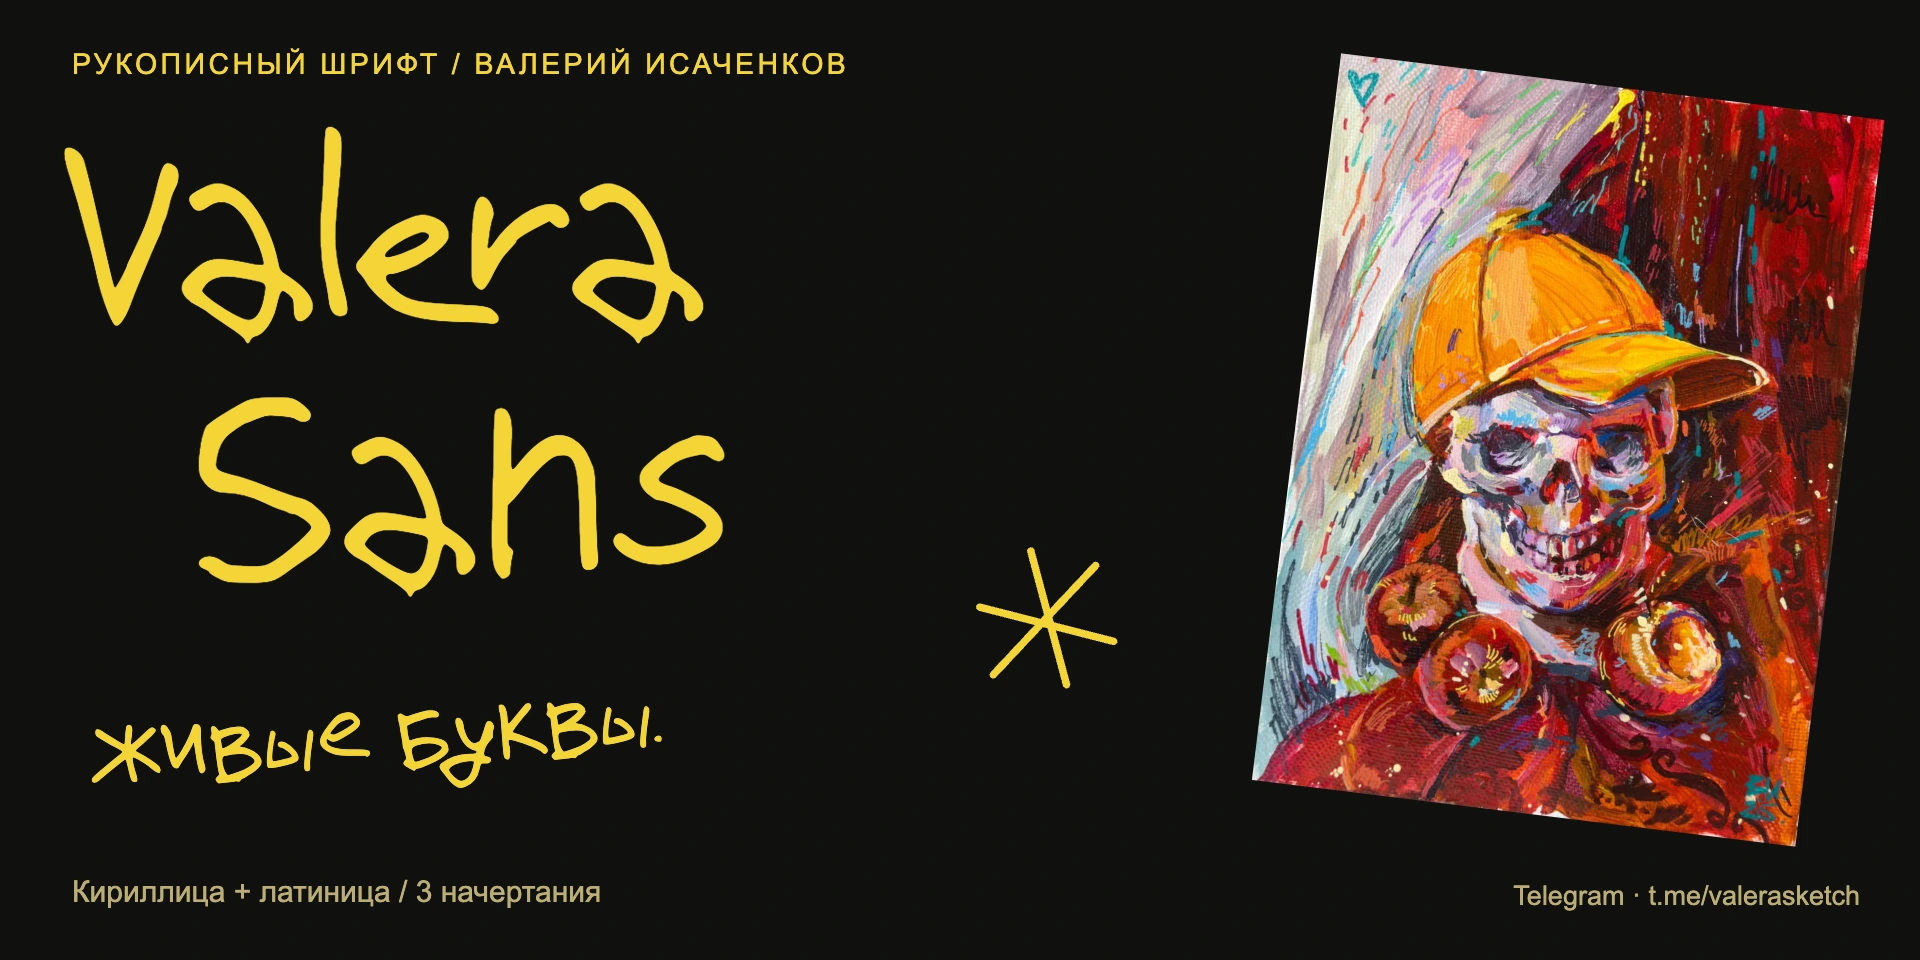
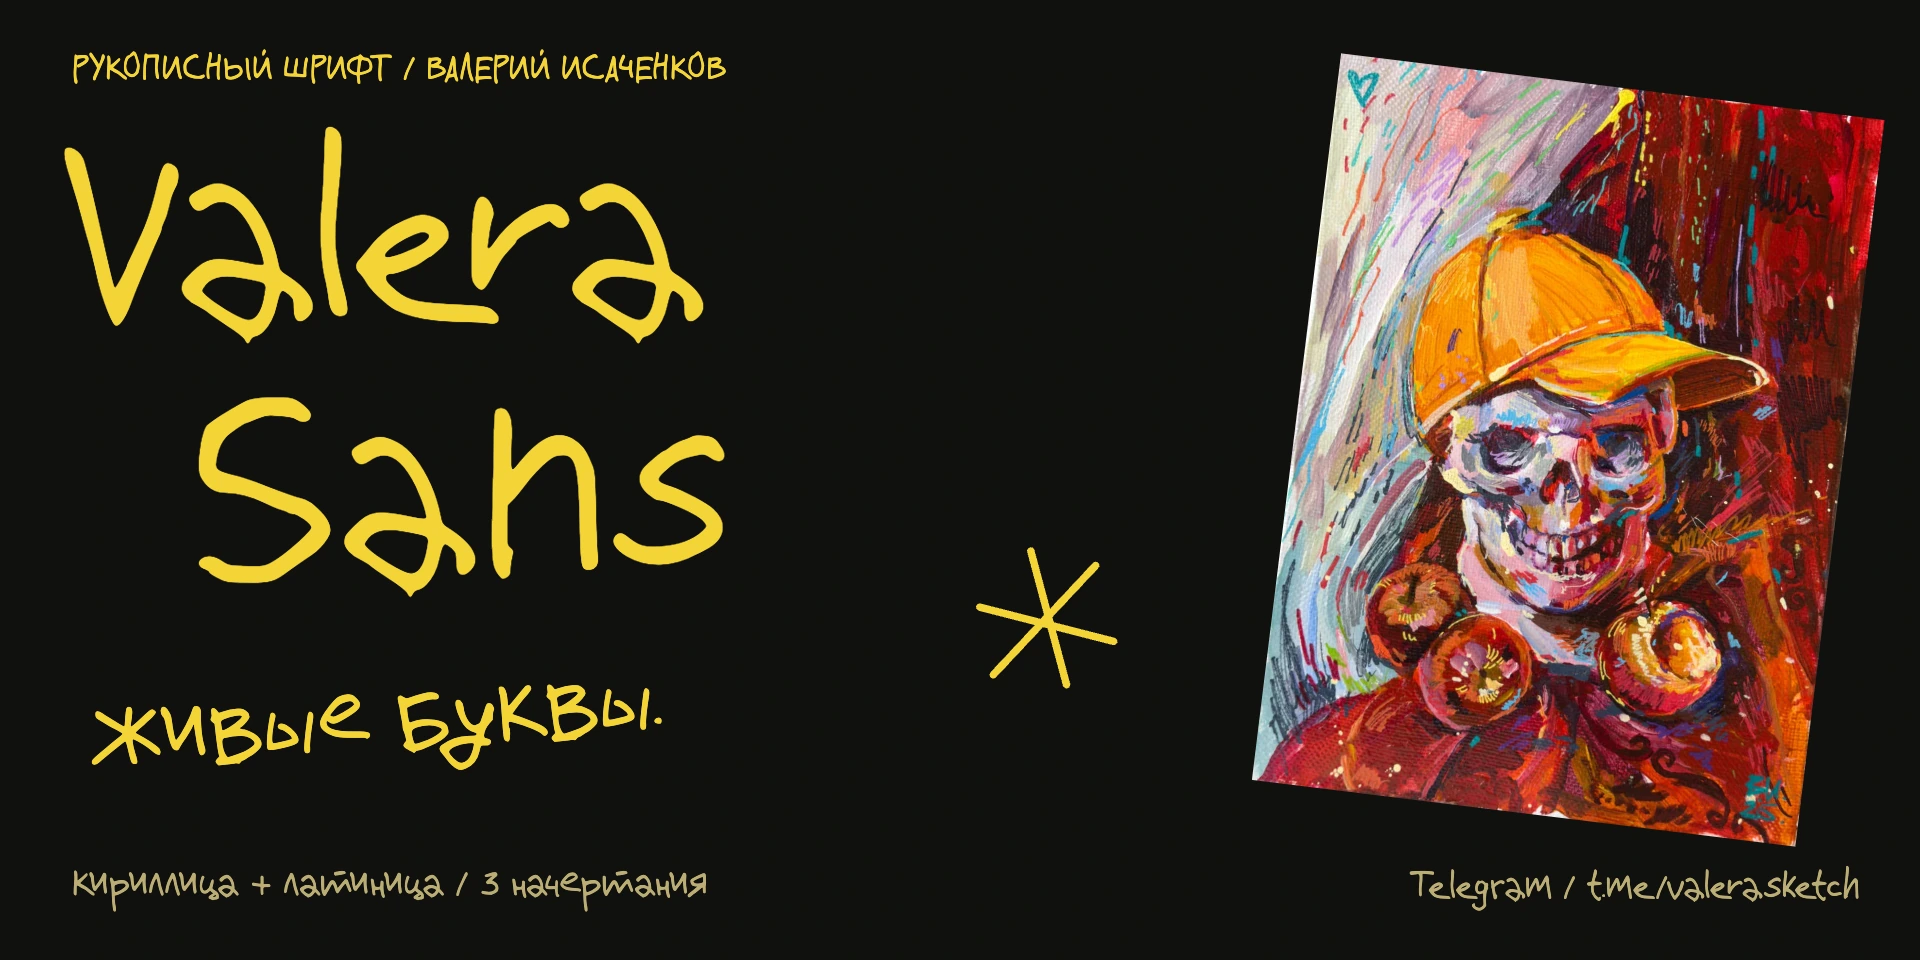
Use Valera Sans for every caption in artwork previews

diff --git a/specimen/cover.html b/specimen/cover.html
@@ -3,11 +3,11 @@
 <title>Valera Sans — авторские обложки</title>
 <link rel="stylesheet" href="../fonts/web/valera-sans.css">
 <style>
-*{box-sizing:border-box}body{margin:0;background:#11110f;color:#f4d437;font-family:Arial,sans-serif}main{width:1280px;height:640px;position:relative;overflow:hidden}.hand{font-family:'Valera Sans',sans-serif;font-kerning:normal;font-feature-settings:'calt' 1;font-synthesis:none;font-weight:400}p{margin:0}.kicker{position:absolute;left:48px;top:32px;font-size:19px;letter-spacing:.12em}.title{position:absolute;left:40px;top:88px;font-size:161px;line-height:1.05;z-index:2}.title span{display:block}.title span+span{margin-left:90px}.painting{position:absolute;right:52px;top:56px;width:365px;height:auto;transform:rotate(7deg)}.note{position:absolute;left:59px;top:445px;font-size:60px;transform:rotate(-4deg)}.footer{position:absolute;left:48px;bottom:34px;font-size:20px;color:#bcae74}.credit{position:absolute;right:40px;bottom:32px;font-size:18px;color:#bcae74}.flourish{position:absolute;left:646px;top:358px;width:106px;height:118px;transform:rotate(-10deg)}.features{display:none;gap:0}.poster{width:50%;height:640px;position:relative;overflow:hidden}.poster h2{font:400 94px/1.02 'Valera Sans',sans-serif;margin:0;position:absolute;z-index:2}.poster img{position:absolute;display:block;object-fit:contain}.poster .label{position:absolute;bottom:30px;left:34px;font-size:17px;line-height:1.5}.fruit{background:#f4d437;color:#11110f}.fruit h2{top:32px;left:34px;transform:rotate(-3deg)}.fruit img{width:490px;left:75px;top:232px;transform:rotate(4deg)}.fish{background:#11110f;color:#f4d437}.fish h2{top:389px;left:42px;transform:rotate(-4deg);font-size:82px}.fish img{width:490px;left:75px;top:30px;transform:rotate(-5deg)}.fish .label{color:#bcae74}.features:target{display:flex}.features:target~.cover{display:none}
+*{box-sizing:border-box}body{margin:0;background:#11110f;color:#f4d437;font:400 24px/1.25 'Valera Sans',sans-serif;font-kerning:normal;font-feature-settings:'calt' 1;font-synthesis:none}main{width:1280px;height:640px;position:relative;overflow:hidden}.hand{font-family:'Valera Sans',sans-serif;font-kerning:normal;font-feature-settings:'calt' 1;font-synthesis:none;font-weight:400}p{margin:0}.kicker{position:absolute;left:48px;top:32px;font-size:24px;letter-spacing:0}.title{position:absolute;left:40px;top:88px;font-size:161px;line-height:1.05;z-index:2}.title span{display:block}.title span+span{margin-left:90px}.painting{position:absolute;right:52px;top:56px;width:365px;height:auto;transform:rotate(7deg)}.note{position:absolute;left:59px;top:445px;font-size:60px;transform:rotate(-4deg)}.footer{position:absolute;left:48px;bottom:34px;font-size:25px;color:#bcae74}.credit{position:absolute;right:40px;bottom:32px;font-size:24px;color:#bcae74}.flourish{position:absolute;left:646px;top:358px;width:106px;height:118px;transform:rotate(-10deg)}.features{display:none;gap:0}.poster{width:50%;height:640px;position:relative;overflow:hidden}.poster h2{font:400 94px/1.02 'Valera Sans',sans-serif;margin:0;position:absolute;z-index:2}.poster img{position:absolute;display:block;object-fit:contain}.poster .label{position:absolute;bottom:30px;left:34px;font-size:24px;line-height:1.25}.fruit{background:#f4d437;color:#11110f}.fruit h2{top:32px;left:34px;transform:rotate(-3deg)}.fruit img{width:490px;left:75px;top:232px;transform:rotate(4deg)}.fish{background:#11110f;color:#f4d437}.fish h2{top:389px;left:42px;transform:rotate(-4deg);font-size:82px}.fish img{width:490px;left:75px;top:30px;transform:rotate(-5deg)}.fish .label{color:#bcae74}.features:target{display:flex}.features:target~.cover{display:none}
 </style></head><body>
 <main id="examples" class="features" aria-label="Примеры Valera Sans с работами автора">
 <article class="poster fruit"><h2>Краски,<br>бумага.</h2><img src="artworks/granat-i-mandariny.webp" alt="Гранат и мандарины — живопись Валерия Исаченкова"><p class="label">ГРАНАТ И МАНДАРИНЫ / МАСЛО</p></article>
-<article class="poster fish"><img src="artworks/forel.webp" alt="Форель с розмарином и лимоном — графика Валерия Исаченкова"><h2>Вещи<br>вокруг.</h2><p class="label">Telegram · t.me/valerasketch</p></article>
+<article class="poster fish"><img src="artworks/forel.webp" alt="Форель с розмарином и лимоном — графика Валерия Исаченкова"><h2>Вещи<br>вокруг.</h2><p class="label">Telegram / t.me/valerasketch</p></article>
 </main>
 <main class="cover" aria-label="Valera Sans — рукописный шрифт Валерия Исаченкова">
 <p class="kicker">РУКОПИСНЫЙ ШРИФТ / ВАЛЕРИЙ ИСАЧЕНКОВ</p>
@@ -15,5 +15,5 @@
 <h1 class="title hand" style="margin:0"><span>Valera</span><span>Sans</span></h1>
 <p class="note hand">Живые буквы.</p>
 <svg class="flourish" viewBox="0 0 106 118" fill="none" stroke="currentColor" stroke-width="5" stroke-linecap="round" aria-hidden="true"><path d="M50 8 58 100M10 39 94 77M11 85 91 25"/></svg>
-<p class="footer">Кириллица + латиница / 3 начертания</p><p class="credit">Telegram · t.me/valerasketch</p>
+<p class="footer">Кириллица + латиница / 3 начертания</p><p class="credit">Telegram / t.me/valerasketch</p>
 </main></body></html>
